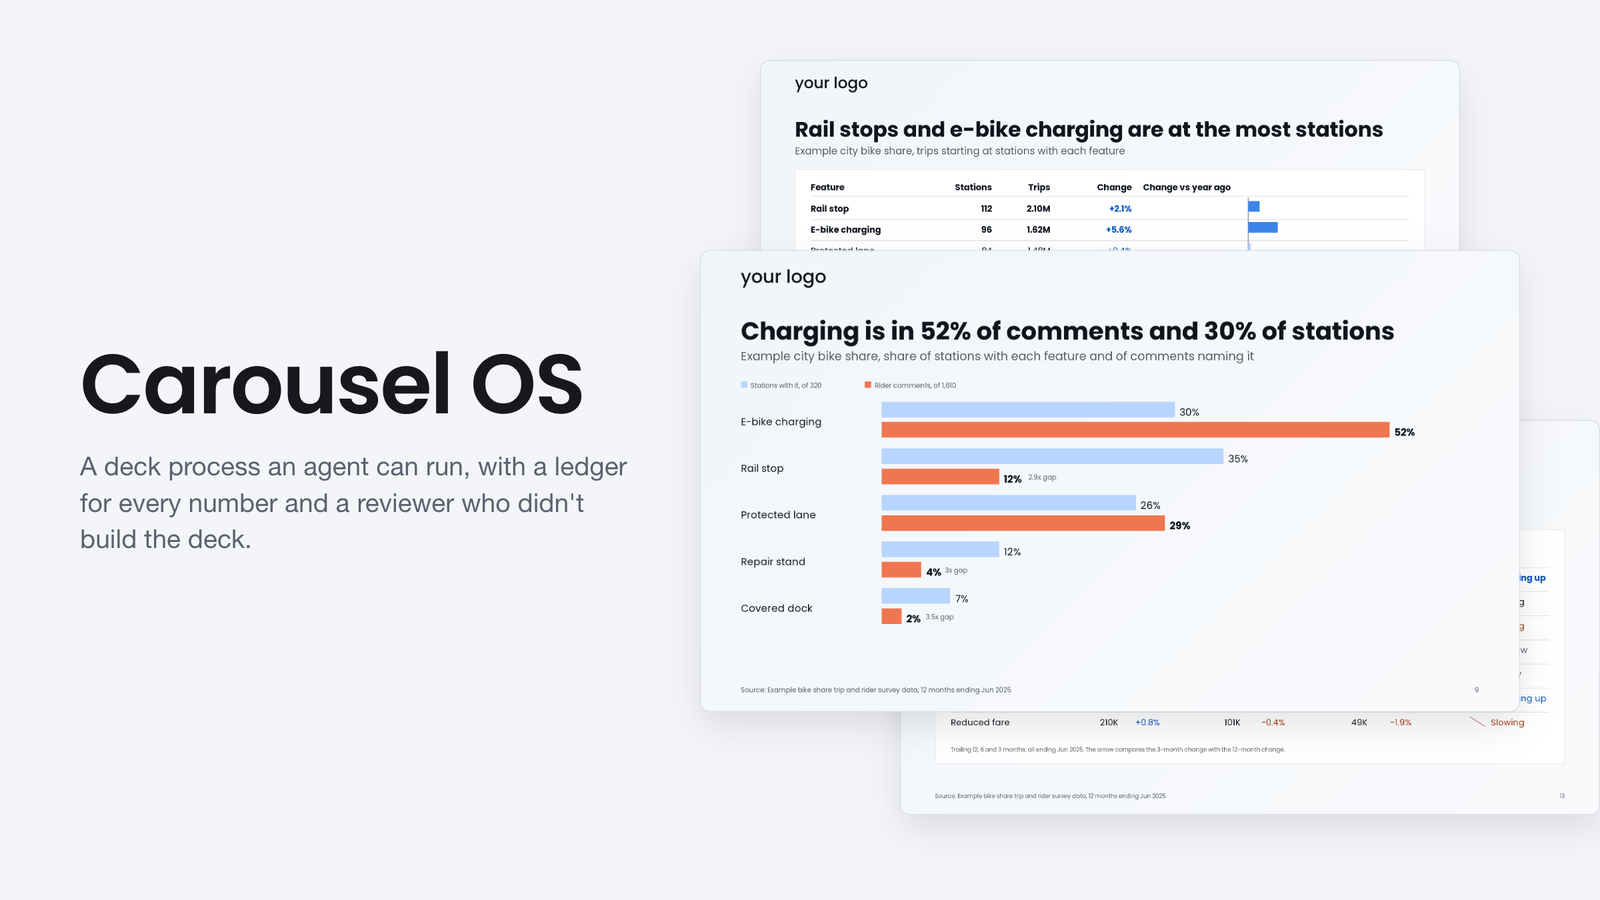
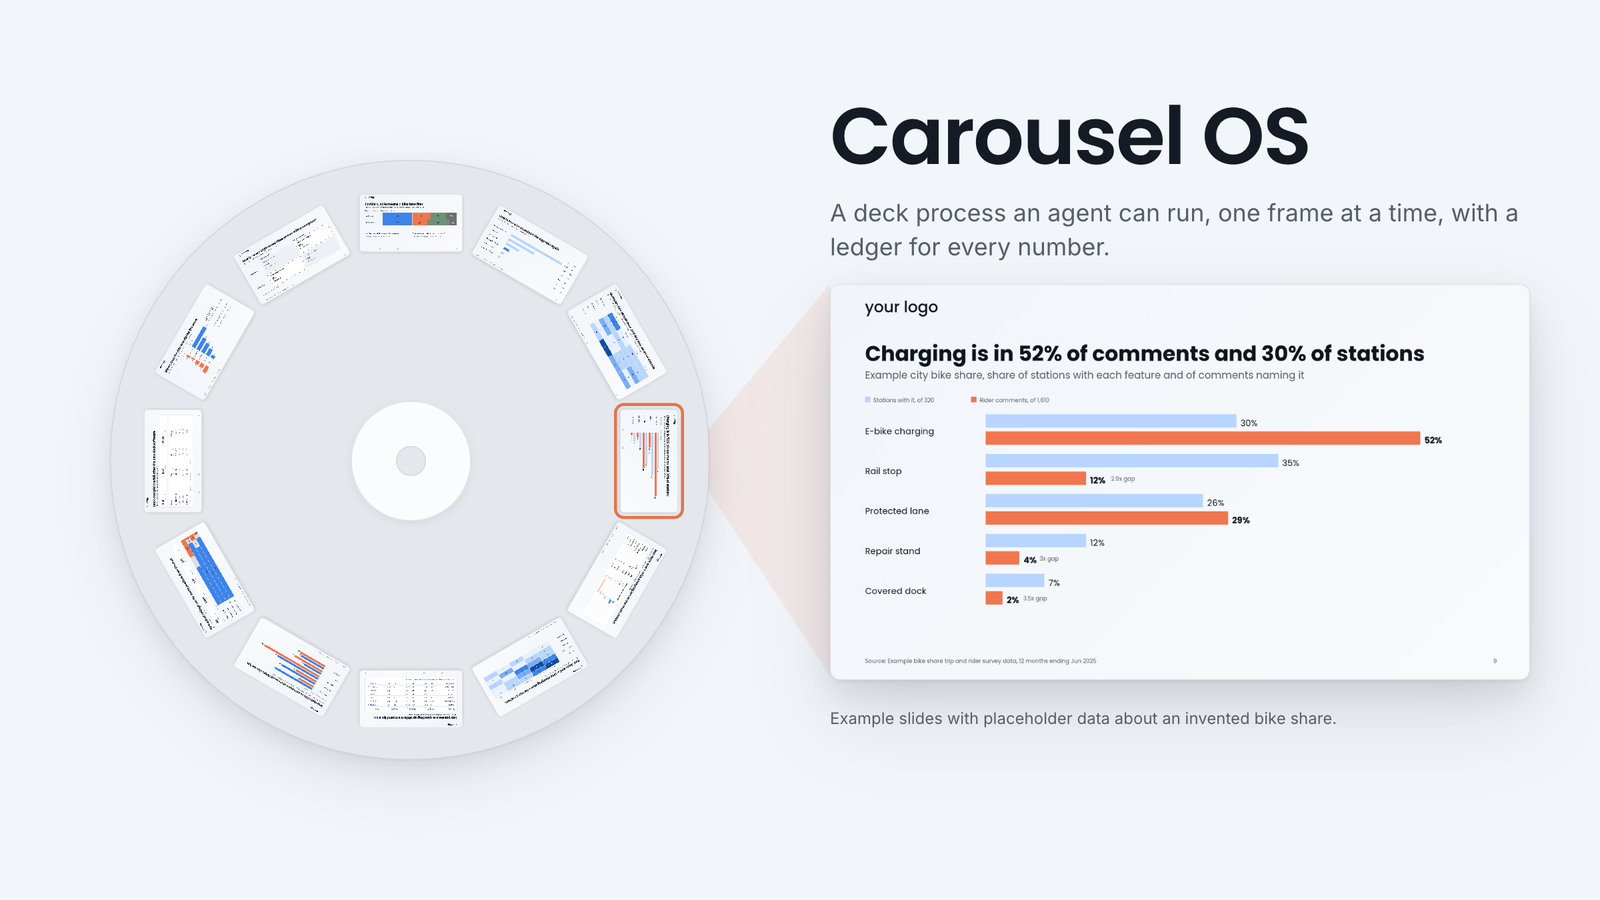
README: install from npm, carousel tray hero

diff --git a/tests/installer/run.js b/tests/installer/run.js
@@ -904,7 +904,7 @@ test("the repro: a --no-agents install with files of yours, doctor's suggestion 
   const d = node(own, ['doctor', '.'], t);
   eq(d.code, 0, d.out);
   yes(!/node scripts\/install\.js/.test(d.out), 'doctor still points at the project\'s own installer:\n' + d.out);
-  const m = /your Carousel OS clone: (node <clone>\/scripts\/install\.js update \S+ --agents), or, once the package is published: npx carousel-os update \S+ --agents/.exec(d.out);
+  const m = /your Carousel OS clone: (node <clone>\/scripts\/install\.js update \S+ --agents), or from npm: npx carousel-os update \S+ --agents/.exec(d.out);
   yes(m, 'doctor does not print a command that runs the installer from a clone:\n' + d.out);
   // Followed as a person would: pasted into the platform's shell, from inside the project.
   const follow = viaShell(m[1].replace('<clone>/scripts/install.js', shq(INSTALL)), t);

diff --git a/scripts/install.js b/scripts/install.js
@@ -585,7 +585,7 @@ function installerCommand(sub, target, extra) {
   const tail = sub + ' ' + checks.shq(path.resolve(target)) + (extra ? ' ' + extra : '');
   const fromClone = !samePlace(SOURCE, target) && !fs.existsSync(path.join(SOURCE, MANIFEST));
   if (fromClone) return 'node ' + checks.shq(path.join(SOURCE, 'scripts', 'install.js')) + ' ' + tail;
-  return 'run the installer from your Carousel OS clone: node <clone>/scripts/install.js ' + tail + ', or, once the package is published: npx carousel-os ' + tail;
+  return 'run the installer from your Carousel OS clone: node <clone>/scripts/install.js ' + tail + ', or from npm: npx carousel-os ' + tail;
 }
 
 // The project's own check-process, by its absolute path, so the command works from any folder.

diff --git a/README.md b/README.md
@@ -1,6 +1,6 @@
 # Carousel OS
 
-![The Carousel OS wordmark beside three example slides about an invented city bike-share program](https://raw.githubusercontent.com/briangrover9-hue/carousel-os/main/docs/hero.png)
+![A slide carousel tray of example slides about an invented city bike share, projecting one slide onto a screen beside the Carousel OS wordmark](https://raw.githubusercontent.com/briangrover9-hue/carousel-os/main/docs/hero.png)
 *Slides drawn by the author's own engine, which is not included.*
 
 A deck process for agents, with a ledger for every number.
@@ -40,6 +40,12 @@ People who ship decks with numbers in them: analysts, consultants, product and s
 ## Getting started
 
 ```
+npx carousel-os init path/to/your-project
+```
+
+Or from a clone:
+
+```
 git clone https://github.com/briangrover9-hue/carousel-os.git
 cd carousel-os
 node scripts/install.js init path/to/your-project
@@ -47,7 +53,7 @@ node scripts/install.js init path/to/your-project
 
 Run `node scripts/check-process.js --plan plans/example/wrenmoor-skip-cancel.md` to see a passing deck. It prints `PASS plan`.
 
-The installer copies the process into your project and leaves any file you already have alone. Open the project in your agent and run `carousel-start`. `node scripts/install.js doctor path/to/your-project` lists anything missing, and `update`, run from your Carousel OS clone, brings a newer copy of the process across without touching files you edited. The copy of the installer inside your project refuses to run, so it can never mistake your own files for the tool's. Once the package is on npm, `npx carousel-os init path/to/your-project` will run the same installer.
+The installer copies the process into your project and leaves any file you already have alone. Open the project in your agent and run `carousel-start`. `node scripts/install.js doctor path/to/your-project` lists anything missing, and `update`, run from your Carousel OS clone, brings a newer copy of the process across without touching files you edited. The copy of the installer inside your project refuses to run, so it can never mistake your own files for the tool's. Or install straight from npm with `npx carousel-os init path/to/your-project`, which runs the same installer.
 
 ## How it works
 
